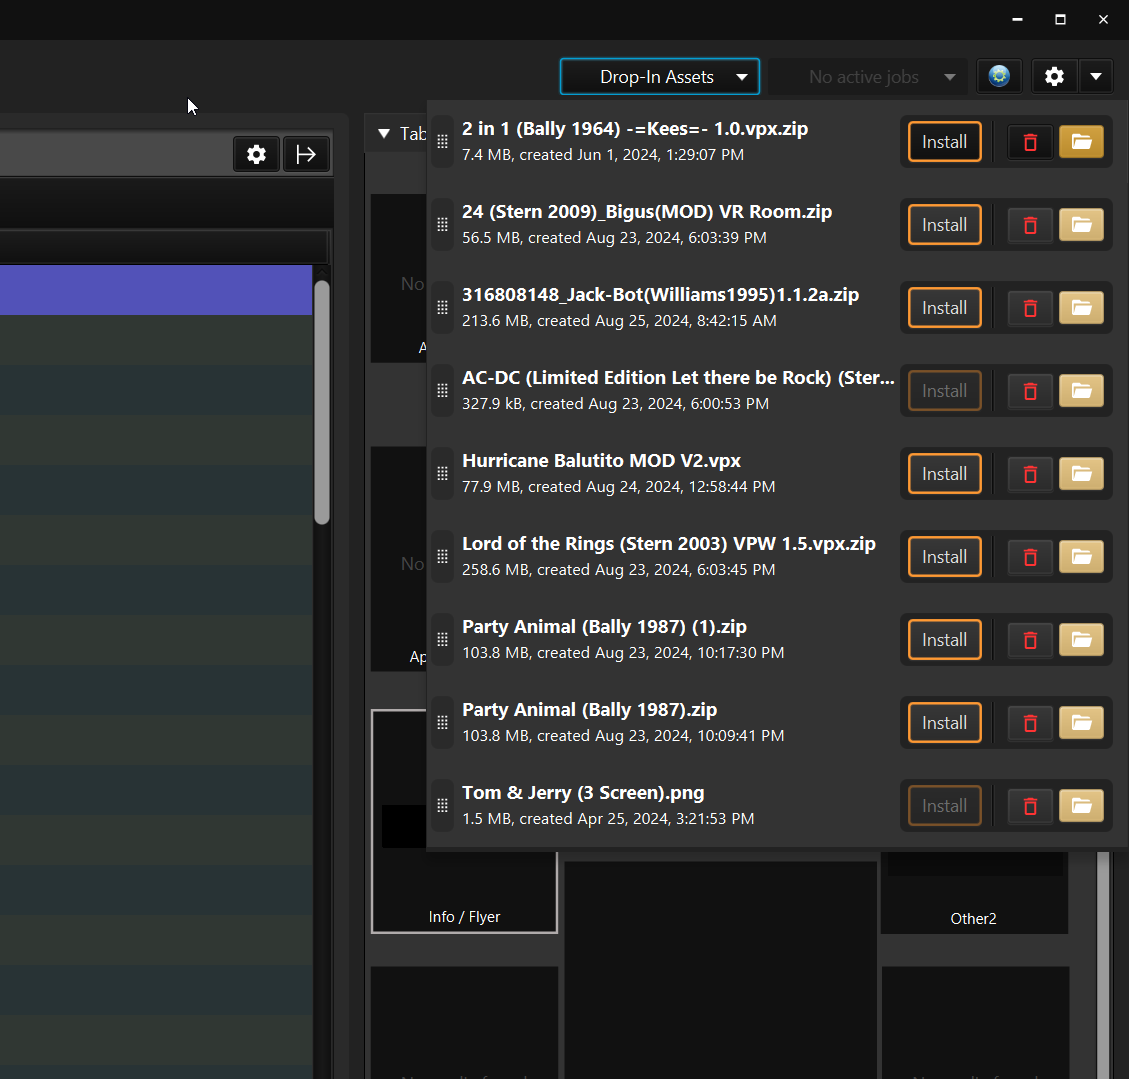
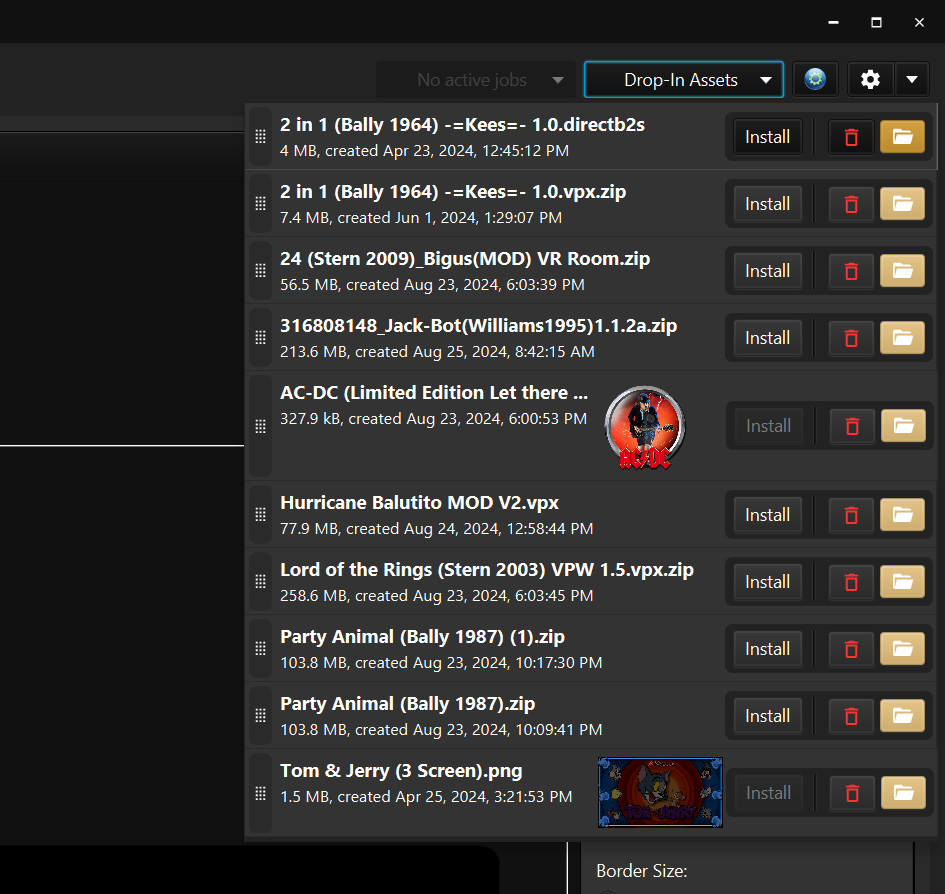
3.4.0

diff --git a/RELEASE_NOTES.md b/RELEASE_NOTES.md
@@ -9,7 +9,7 @@
 
   <img src="https://raw.githubusercontent.com/syd711/vpin-studio/main/documentation/tables/vps-tab.png" width="700" />
 
-- **Added drop-in folder feature**: 
+- **Added drop-in folder feature**: The "drop-in folder" feature allows you to configure a dedicated download folder for VPin assets. The assets of the folder are shown inside the Studio can be installed directly from there, either via drag-and-drop or via a separate "install" button.
 
   <img src="https://raw.githubusercontent.com/syd711/vpin-studio/main/documentation/tables/drop-ins-menu.png" width="700" />
 
@@ -24,6 +24,6 @@
 - **Highscore Cards**: Fixed "margins" for the non-raw score rendering, so that only the score values are positioned and the table title remains centered.
 - **Table Overview / Table Uploads**: The table overview does not perform a full reload after table uploads anymore. 
 - **Table Overview / Table Deletions**: The table overview does not perform a full reload after table deletions anymore. 
-- **Highscores Parsing**: Text based highscores are now resetted by their values and not simply deleted anymore.
+- **Highscores Parsing**: Text based highscore files are now resetted by their values and not simply deleted anymore.
 - **Highscores Parsing**: Added filtering for duplicated scores. There are tables like "Hurricane" or "Whirlwind" where the "GRAND CHAMPION" is also listed on the first place. Instead of fixing all affected tables one-by-one, a filter for duplicated scores has been added.
 - **Highscores**: Fixed highscore for "No good gofers" by adding "CLUB CHAMPION" to the default list of highscore titles.
